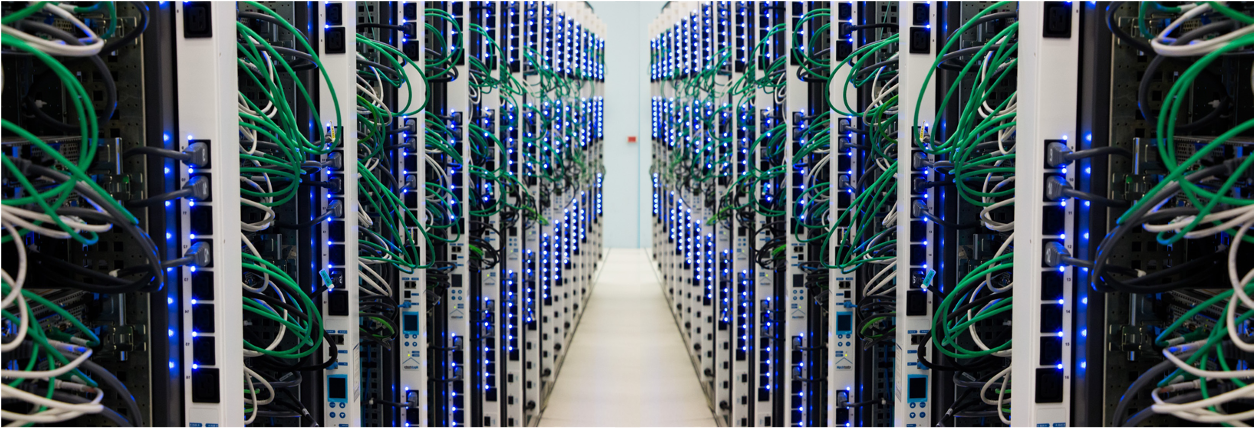
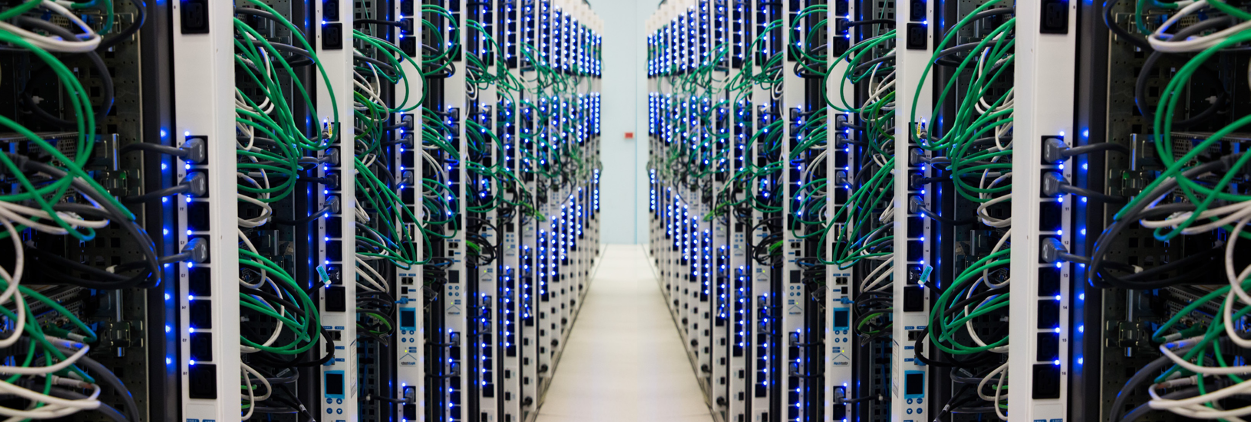
Computing background

diff --git a/docs/assets/css/main.css b/docs/assets/css/main.css
@@ -2161,10 +2161,10 @@ input, select, textarea {
 			}
 
 		.homepage {
-			background-image: -moz-linear-gradient(top, rgba(0,0,0,0.9), rgba(0,0,0,0.9)), url("../../images/Computing_center.png");
-			background-image: -webkit-linear-gradient(top, rgba(0,0,0,0.9), rgba(0,0,0,0.9)), url("../../images/Computing_center.png");
-			background-image: -ms-linear-gradient(top, rgba(0,0,0,0.9), rgba(0,0,0,0.9)), url("../../images/Computing_center.png");
-			background-image: linear-gradient(top, rgba(0,0,0,0.9), rgba(0,0,0,0.9)), url("../../images/Computing_center.png");
+			background-image: -moz-linear-gradient(top, rgba(0,0,0,0.6), rgba(0,0,0,0.6)), url("../../images/Computing_center.png");
+			background-image: -webkit-linear-gradient(top, rgba(0,0,0,0.6), rgba(0,0,0,0.6)), url("../../images/Computing_center.png");
+			background-image: -ms-linear-gradient(top, rgba(0,0,0,0.6), rgba(0,0,0,0.6)), url("../../images/Computing_center.png");
+			background-image: linear-gradient(top, rgba(0,0,0,0.6), rgba(0,0,0,0.6)), url("../../images/Computing_center.png");
 			background-size: cover;
 			background-position: center center;
 			background-attachment: fixed;
